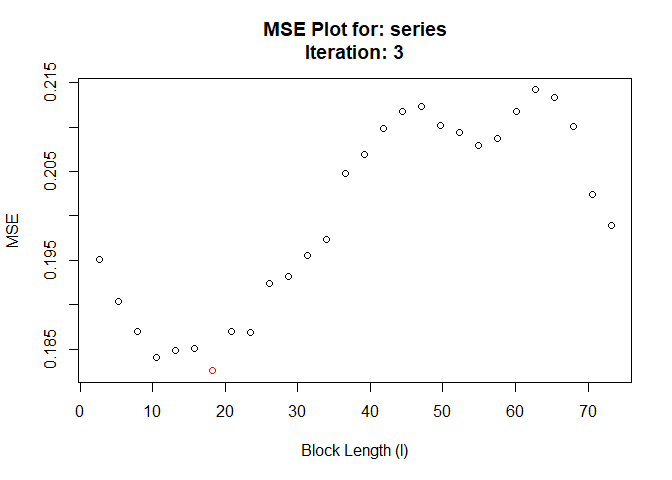
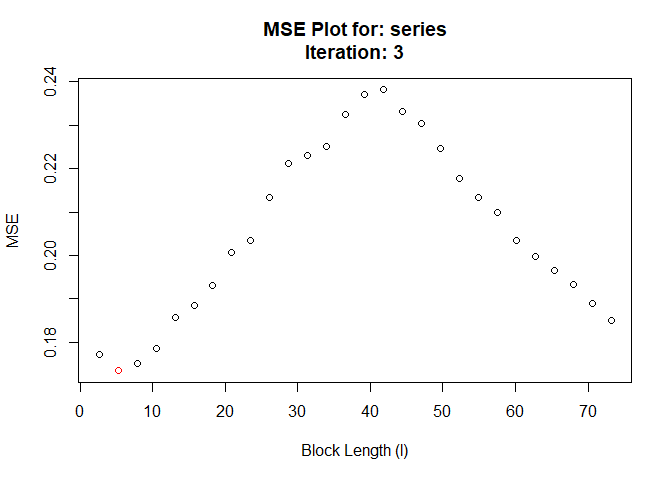
Update readme

diff --git a/README.md b/README.md
@@ -48,69 +48,28 @@ HHJboot(series)
 #>   as.zoo.data.frame zoo
 #> Performing minimization may take some time
 #> Calculating MSE for each level in subsample: 28 function evaluations required.
-#>  Chosen block length: 16  After iteration: 1
+#>  Chosen block length: 10  After iteration: 1
 ```
 
 <img src="man/figures/README-example-1.png" width="100%" />
 
-    #>  Chosen block length: 18  After iteration: 2
+    #>  Chosen block length: 8  After iteration: 2
 
 <img src="man/figures/README-example-2.png" width="100%" />
 
-    #>  Converged at block length (l): 18
+    #>  Chosen block length: 5  After iteration: 3
 
 <img src="man/figures/README-example-3.png" width="100%" />
 
+    #>  Converged at block length (l): 5
+
+<img src="man/figures/README-example-4.png" width="100%" />
+
     #> $`Optimal Block Length`
-    #> [1] 18
+    #> [1] 5
     #> 
     #> $`Pilot Number of Blocks (m)`
     #> [1] 28
     #> 
     #> $Call
     #> HHJboot(series = series)
-    
-    # With parallel grid-search
-    cl <- parallel::makeCluster(parallel::detectCores())
-    HHJboot(series, cl = cl)
-    #>  Pilot block length is: 3
-    #> Performing minimization may take some time
-    #> Calculating MSE for each level in subsample: 28 function evaluations required.
-    #>  Chosen block length: 18  After iteration: 1
-
-<img src="man/figures/README-example-4.png" width="100%" />
-
-    #>  Converged at block length (l): 18
-
-<img src="man/figures/README-example-5.png" width="100%" />
-
-    #> $`Optimal Block Length`
-    #> [1] 18
-    #> 
-    #> $`Pilot Number of Blocks (m)`
-    #> [1] 28
-    #> 
-    #> $Call
-    #> HHJboot(series = series, cl = cl)
-    
-    # With given pilot block length and size of overlapping subsample
-    HHJboot(series, pilot.block.length = 15, sub.block.size = 60)
-    #>  Pilot block length is: 15
-    #> Performing minimization may take some time
-    #> Calculating MSE for each level in subsample: 60 function evaluations required.
-    #>  Chosen block length: 2  After iteration: 1
-
-<img src="man/figures/README-example-6.png" width="100%" />
-
-    #>  Converged at block length (l): 2
-
-<img src="man/figures/README-example-7.png" width="100%" />
-
-    #> $`Optimal Block Length`
-    #> [1] 2
-    #> 
-    #> $`Pilot Number of Blocks (m)`
-    #> [1] 60
-    #> 
-    #> $Call
-    #> HHJboot(series = series, pilot.block.length = 15, sub.block.size = 60)
